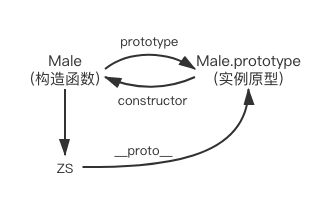
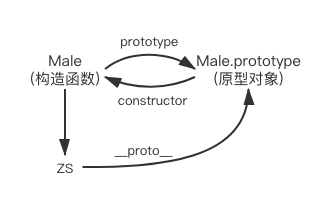
原型

Changed region(s): [[0.6728, 0.3529, 0.8563, 0.4412]]

diff --git a/source/_posts/prototype.md b/source/_posts/prototype.md
@@ -28,10 +28,10 @@ console.log(ZS.sex);   // 男
 
 看第4行代码`Male.prototype.sex = "男";`，函数`Male`有个`prototype`对象属性，并且可以给其赋值。
 
-1. `Javascript`中，每一个函数都有一个`prototype`对象属性，指向的是另一个对象，这个对象叫它`实例原型`。
-2. `实例原型`中的所有属性和方法，都会被构造函数的实例所继承，如`sex`属性。所以会把不变的属性和方法，放在`实例原型`中。
+1. `Javascript`中，每一个函数都有一个`prototype`对象属性，指向的是另一个对象，这个对象叫它`原型对象`。
+2. `原型对象`中的所有属性和方法，都会被构造函数的实例所继承，如`sex`属性。所以会把不变的属性和方法，放在`原型对象`中。
 
-构造函数和实例原型之间的关系：
+构造函数和原型对象之间的关系：
 
 ![](../image/prototype/1.png)
 
@@ -41,7 +41,7 @@ console.log(ZS.sex);   // 男
 
 <img src="../image/prototype/2.png" width="220" />
 
-3. 每一个对象(null除外)都会有这个属性`__proto__`，它指向的是`实例原型`。
+3. 每一个对象(null除外)都会有这个属性`__proto__`，它指向的是`原型对象`。
 4. 执行`ZS.__proto__`相当于执行`Object.getPrototypeOf(ZS)`。
 
 ```js
@@ -78,7 +78,7 @@ console.log(ZS.__proto__.constructor === Male);    // true
 
 ## 原型的原型
 
-正如第3条所说的，每个对象都有原型。`ZS.__proto__`是一个对象，是通过构造函数`Object`创建的，那么`ZS.__proto__`的原型就是`Object`的实例原型。如下:
+正如第3条所说的，每个对象都有原型。`ZS.__proto__`是一个对象，是通过构造函数`Object`创建的，那么`ZS.__proto__`的原型就是`Object`的原型对象。如下:
 
 ```js
 console.log(ZS.__proto__.__proto__ === Object.prototype); // true
@@ -96,7 +96,7 @@ console.log(ZS.__proto__.__proto__ === Object.prototype); // true
 ## 总结
 
 1. 对象都有原型(null除外)，原型是个对象
-2. 对象的__proto__指向对应的原型，原型的constructor指向对应的构造函数，构造函数的prototype指向该实例的原型
+2. 对象的__proto__指向对应的原型，原型的constructor指向对应的构造函数，构造函数的prototype指向对应实例的原型对象
 3. 读取对象的属性时，从本身属性到一层一层的原型往上找，直到null。找到了即返回，找不到返回undefined
 
 
